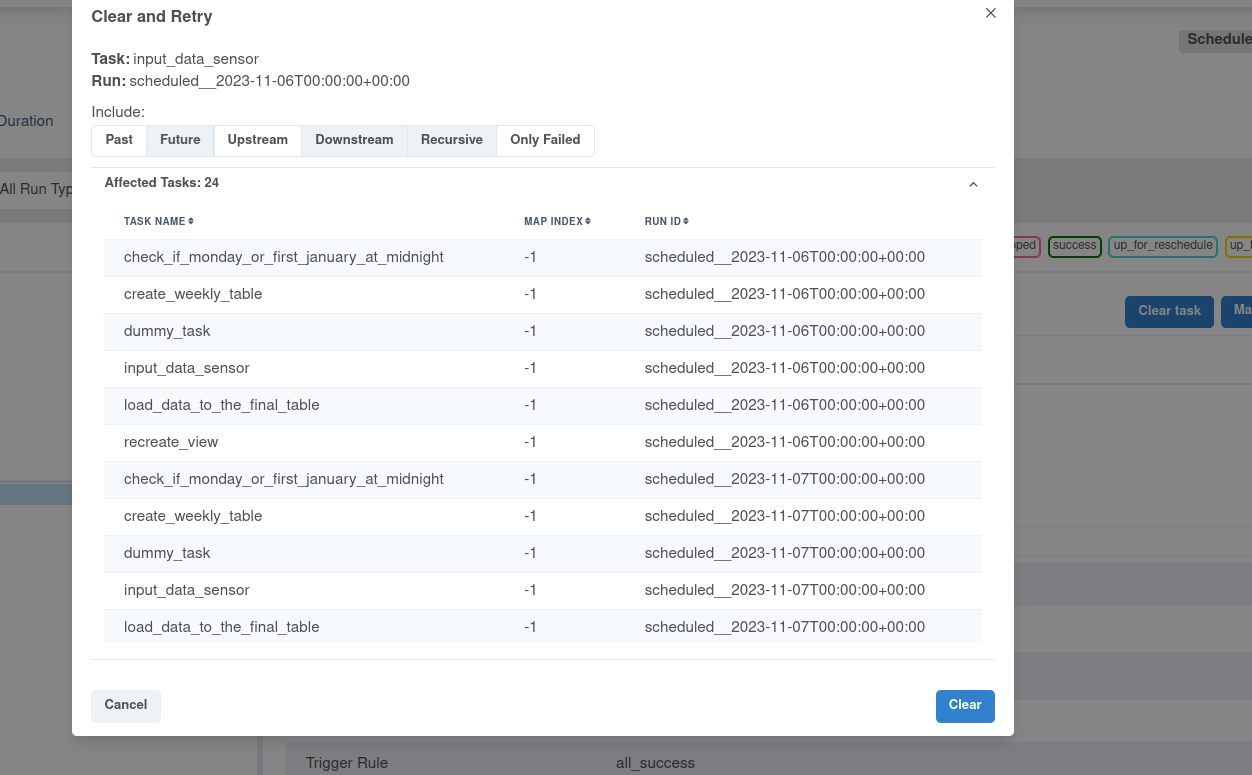
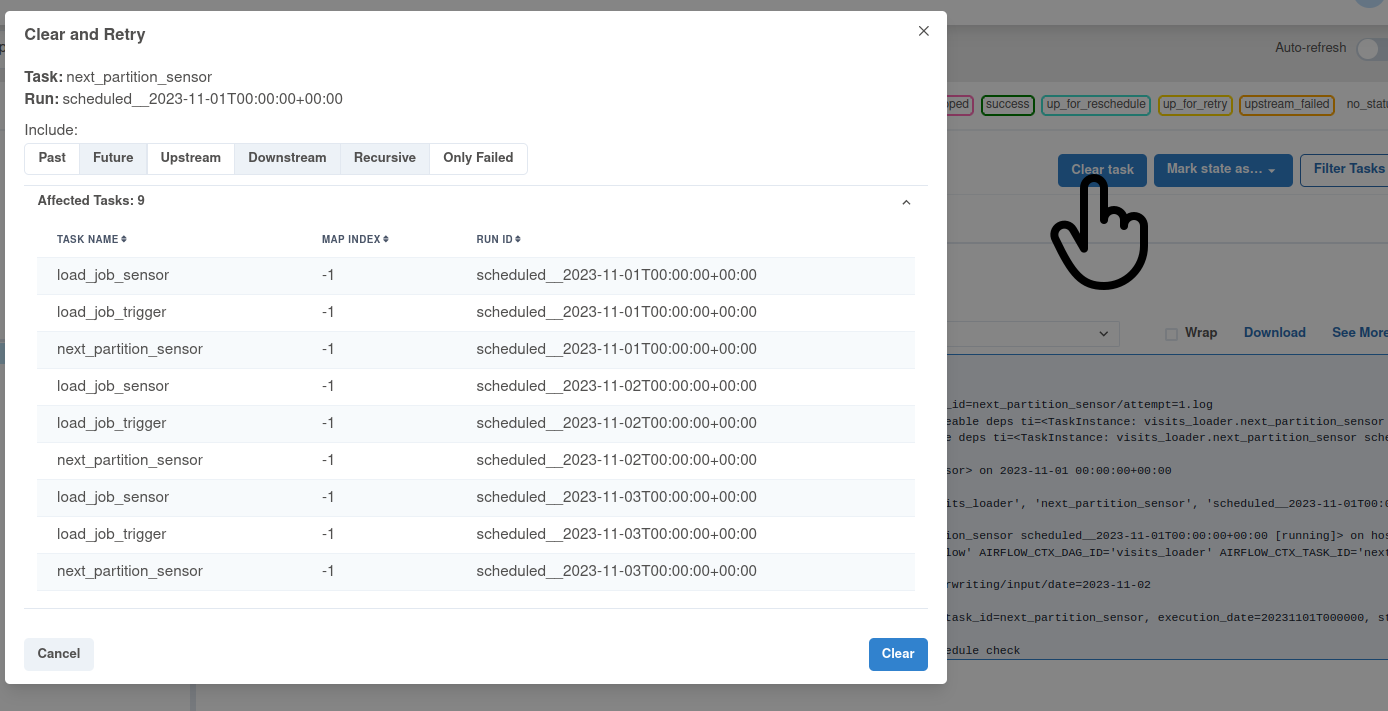
update readme

diff --git a/chapter-04/overwriting/airflow-spark/airflow/dags/visits_loader.py b/chapter-04/overwriting/airflow-spark/airflow/dags/visits_loader.py
@@ -32,16 +32,17 @@ with DAG('visits_loader', max_active_runs=1,
         do_xcom_push=False
     )
 
+    visits_loader_job_k8s_namespace = 'dedp-ch04'
     load_job_trigger = SparkKubernetesOperator(
         task_id='load_job_trigger',
-        namespace=get_namespace(),
+        namespace=visits_loader_job_k8s_namespace,
         application_file='visits_loader.yaml',
         do_xcom_push=True
     )
 
     load_job_sensor = SparkKubernetesSensor(
         task_id='load_job_sensor',
-        namespace=get_namespace(),
+        namespace=visits_loader_job_k8s_namespace,
         mode='reschedule',
         application_name="{{ task_instance.xcom_pull(task_ids='load_job_trigger')['metadata']['name'] }}",
         attach_log=True

diff --git a/chapter-04/overwriting/airflow-spark/README.md b/chapter-04/overwriting/airflow-spark/README.md
@@ -77,13 +77,38 @@ cd airflow
 4. Start the `visits_loader` DAG and wait for all the three scheduled executions to complete.
 5. Check the outcome:
 ```
-$ tree /tmp/dedp/ch04/overwriting/data_overwriting/output
+$ tree /tmp/dedp/ch04/overwriting/data_overwriting/output -DA
+/tmp/dedp/ch04/overwriting/data_overwriting/output
+├── [Jan 30 05:46]  date=2023-11-01
+│   ├── [Jan 30 05:46]  part-00000-261d4939-e697-4ea8-b8e1-3c6e484a56a8-c000.txt
+│   └── [Jan 30 05:46]  _SUCCESS
+├── [Jan 30 05:47]  date=2023-11-02
+│   ├── [Jan 30 05:47]  part-00000-796dfe90-23ab-4112-acf5-55151a02addc-c000.txt
+│   └── [Jan 30 05:47]  _SUCCESS
+└── [Jan 30 05:48]  date=2023-11-03
+    ├── [Jan 30 05:48]  part-00000-4c533850-4dd3-4ff3-8ace-2fef447e9b03-c000.txt
+    └── [Jan 30 05:48]  _SUCCESS
+
+3 directories, 6 files
 ```
 6. Clean the pipelines to restart them:
-**TODO: add screenshot**
+![assets/clear_tasks.png](assets/clear_tasks.png)
 7. Wait for the completion.
 8. Check the result; thanks to the overwriting mode, you shouldn't see any duplicates:
 ```
-$ tree /tmp/dedp/ch04/overwriting/data_overwriting/output
+$ tree /tmp/dedp/ch04/overwriting/data_overwriting/output -DA
+/tmp/dedp/ch04/overwriting/data_overwriting/output
+├── [Jan 30 05:51]  date=2023-11-01
+│   ├── [Jan 30 05:51]  part-00000-6f7f734c-8f4f-4d37-8ba9-f9817504aa02-c000.txt
+│   └── [Jan 30 05:51]  _SUCCESS
+├── [Jan 30 05:52]  date=2023-11-02
+│   ├── [Jan 30 05:52]  part-00000-4367a1b6-794a-41cc-bc9a-4bad884f8f36-c000.txt
+│   └── [Jan 30 05:52]  _SUCCESS
+└── [Jan 30 05:54]  date=2023-11-03
+    ├── [Jan 30 05:54]  part-00000-33d3b739-1480-4b1a-b6df-b28bf215e524-c000.txt
+    └── [Jan 30 05:54]  _SUCCESS
+
+3 directories, 6 files
 ```
+You should see the same number of files but with different creation times.
 9. Stop minikube: `minikube stop`
